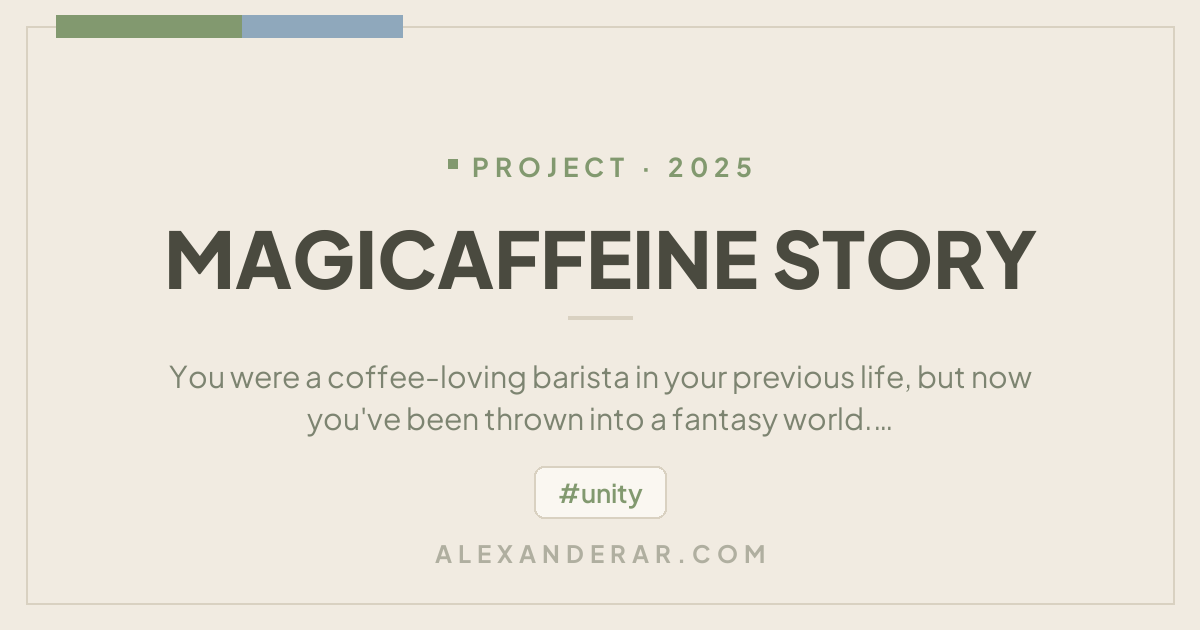
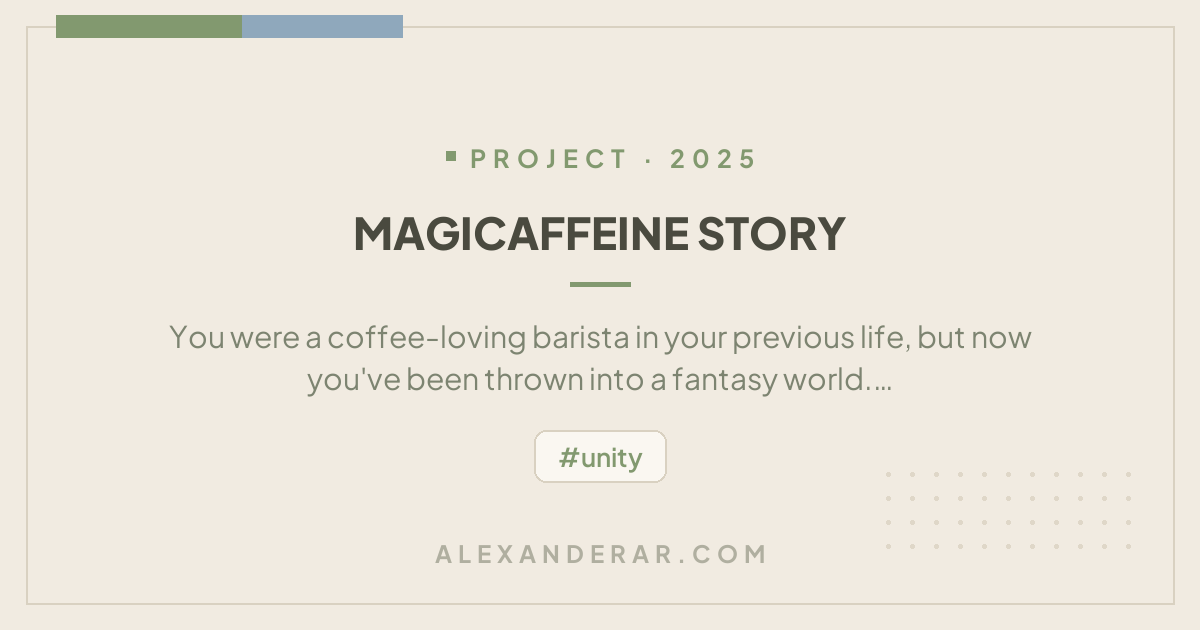
feat(og): polish card composition
Bigger starting title, tighter line height, sage underline accent, a
subtle dot grid in the bottom-right corner, and a measure-first layout
that vertically centers the whole stack — long titles now shrink until
everything fits instead of overflowing the frame.

Amp-Thread-ID: https://ampcode.com/threads/T-01a10003-01f7-708f-845f-fc405ab7fa1c

Changed region(s): [[0.1233, 0.3317, 0.8633, 0.8444], [0.37, 0.2413, 0.5242, 0.3016], [0.555, 0.2413, 0.6475, 0.3016]]

diff --git a/scripts/generate-og.py b/scripts/generate-og.py
@@ -107,7 +107,7 @@ def draw_tracked(draw: ImageDraw.ImageDraw, text: str, font: ImageFont.FreeTypeF
 
 
 def background() -> Image.Image:
-    """Flat beige card, thin frame, two accent bars on the top edge."""
+    """Flat beige card, thin frame, accent bars, and a subtle dot grid."""
     img = Image.new("RGB", (W, H), BG)
     draw = ImageDraw.Draw(img)
     inset = 26
@@ -115,6 +115,10 @@ def background() -> Image.Image:
     # accent bars sitting on the top frame line, left-aligned
     draw.rectangle([56, 15, 246, 37], fill=SAGE_DEEP)
     draw.rectangle([242, 15, 402, 37], fill=BLUE)
+    # subtle dot grid, bottom-right corner (flat, low contrast)
+    for gy in range(H - 156, H - 62, 24):
+        for gx in range(W - 312, W - 70, 24):
+            draw.ellipse([gx - 2, gy - 2, gx + 2, gy + 2], fill=(223, 215, 200))
     return img
 
 
@@ -140,19 +144,6 @@ def wrap(draw: ImageDraw.ImageDraw, text: str, font: ImageFont.FreeTypeFont,
             lines[-1] = lines[-1][:-1]
         lines[-1] += "…"
     return lines
-
-
-def fit_title(draw: ImageDraw.ImageDraw, title: str, max_width: int,
-              start_size: int = 78) -> tuple[ImageFont.FreeTypeFont, list[str]]:
-    size = start_size
-    while size >= 40:
-        font = load_font(size, "ExtraBold")
-        lines = wrap(draw, title, font, max_width, 3)
-        if len(lines) * int(size * 1.12) <= 240:
-            return font, lines
-        size -= 6
-    font = load_font(40, "ExtraBold")
-    return font, wrap(draw, title, font, max_width, 3)
 
 
 def parse_frontmatter(path: Path) -> dict:
@@ -207,54 +198,76 @@ def card(*, kicker: str, title: str, description: str, tag: str, out: Path) -> N
     center = W / 2
 
     # kicker: "■ POST · 20 FEBRUARY 2026"
-    kick_font = load_font(26, "Bold")
+    kick_font = load_font(25, "Bold")
     kick_text = kicker.upper()
-    tracking = 6
+    tracking = 7
     square = 9
     kick_w = tracked(draw, kick_text, kick_font, tracking)
     block_w = square + 14 + kick_w
-    kick_y = 150
+    kick_y = 142
     draw.rectangle([center - block_w / 2, kick_y + 9,
                     center - block_w / 2 + square, kick_y + 9 + square],
                    fill=SAGE_DEEP)
     draw_tracked(draw, kick_text, kick_font, center + (square + 14) / 2,
                  kick_y, SAGE_DEEP, tracking)
 
-    # big uppercase title
-    title_font, lines = fit_title(draw, title.upper(), W - 260)
-    line_h = int(title_font.size * 1.14)
-    title_y = 208
-    for line in lines:
-        tw = draw.textlength(line, font=title_font)
-        draw.text((center - tw / 2, title_y), line, font=title_font, fill=INK)
-        title_y += line_h
-    title_bottom = title_y - line_h + title_font.size
+    # measure every block first, then center the whole stack vertically —
+    # long titles shrink until everything fits between kicker and footer.
+    top = 204
+    bottom_limit = H - 118
+    avail = bottom_limit - top
 
-    # short underline under the title
-    rule_y = title_bottom + 30
-    draw.rectangle([center - 32, rule_y, center + 32, rule_y + 3], fill=LINE)
-
-    # description (up to 2 centered lines)
     desc_font = load_font(30, "Regular")
     desc_lines = wrap(draw, description, desc_font, W - 320, 2) if description else []
-    desc_y = rule_y + 40
+    desc_h = len(desc_lines) * 42
+    chip_h = 52 if tag else 0
+    underline_gap, underline_h, section_gap = 30, 4, 30
+
+    def measure(size: int):
+        font = load_font(size, "ExtraBold")
+        lines = wrap(draw, title.upper(), font, W - 260, 3)
+        t_block = len(lines) * int(size * 1.1)
+        stack = t_block + underline_gap + underline_h + underline_gap
+        stack += (desc_h + section_gap) if desc_h else 0
+        stack += (section_gap + chip_h) if chip_h else 0
+        return font, lines, t_block, stack
+
+    size = 88
+    while size >= 42:
+        font, lines, t_block, stack = measure(size)
+        if stack <= avail:
+            break
+        size -= 4
+
+    y = top + max((avail - stack) / 2, 0)
+    line_h = int(font.size * 1.1)
+    for line in lines:
+        tw = draw.textlength(line, font=font)
+        draw.text((center - tw / 2, y), line, font=font, fill=INK)
+        y += line_h
+
+    # short sage underline under the title
+    y += underline_gap
+    draw.rectangle([center - 30, y, center + 30, y + underline_h], fill=SAGE_DEEP)
+    y += underline_h + underline_gap
+
+    # description (up to 2 centered lines)
     for line in desc_lines:
         tw = draw.textlength(line, font=desc_font)
-        draw.text((center - tw / 2, desc_y), line, font=desc_font, fill=OLIVE)
-        desc_y += 42
+        draw.text((center - tw / 2, y), line, font=desc_font, fill=OLIVE)
+        y += 42
 
     # "#tag" chip
     if tag:
+        y += section_gap
         tag_text = f"#{tag.lower()}"
         tag_font = load_font(26, "SemiBold")
         tw = draw.textlength(tag_text, font=tag_font)
-        chip_y = desc_y + 26
-        chip_h = 52
         draw.rounded_rectangle(
-            [center - tw / 2 - 24, chip_y, center + tw / 2 + 24, chip_y + chip_h],
-            radius=10, fill=CHIP_BG, outline=LINE, width=2,
+            [center - tw / 2 - 24, y, center + tw / 2 + 24, y + chip_h],
+            radius=12, fill=CHIP_BG, outline=LINE, width=2,
         )
-        draw.text((center - tw / 2, chip_y + (chip_h - 26) / 2 - 3),
+        draw.text((center - tw / 2, y + (chip_h - 26) / 2 - 3),
                   tag_text, font=tag_font, fill=SAGE_DEEP)
 
     # domain at the bottom
